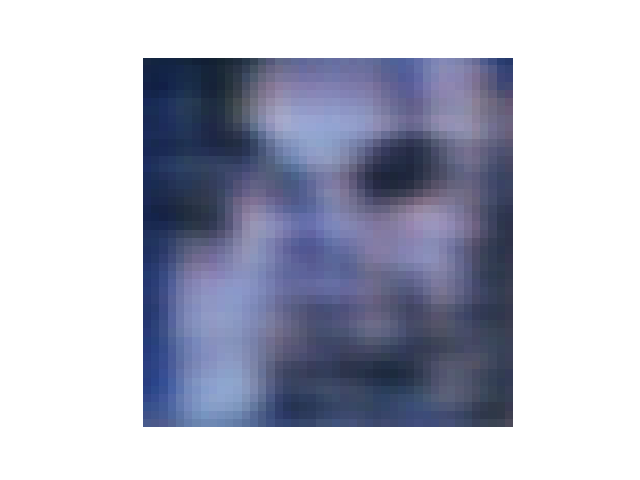
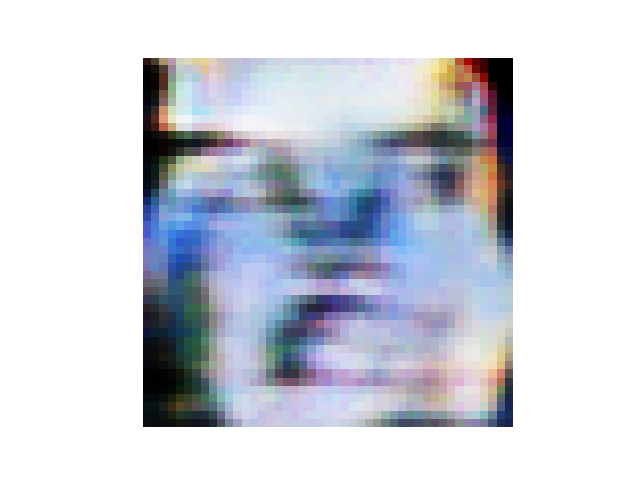
last commit and ready chekpoints

diff --git a/Gan.py b/Gan.py
@@ -36,36 +36,10 @@ IMG_SHAPE = data.shape[1:]
 print(f'IMG_SHAPE{IMG_SHAPE}')
 hidd = 256
 
-image_h = data.shape[1]
-image_w = data.shape[2]
-
-encoder_inputs = L.Input(shape=(image_h, image_w, 3))
-x = L.Conv2D(32, (3, 3), activation='relu', padding='same')(encoder_inputs)
-x = L.MaxPooling2D((2, 2))(x)
-x = L.Conv2D(64, (3, 3), activation='relu', padding='same')(x)
-x = L.MaxPooling2D((2, 2))(x)
-x = L.Flatten()(x)
-z_mean = L.Dense(hidd, activation='relu', kernel_initializer='glorot_uniform', bias_initializer='zeros')(x)
-z_log_var = L.Dense(hidd, activation='relu', kernel_initializer='glorot_uniform', bias_initializer='zeros')(x)
-
-# Define the sampling layer
-def sampling(args):
-    z_mean, z_log_var = args
-    epsilon = K.random_normal(shape=(K.shape(z_mean)[0], hidd), mean=0., stddev=1.)
-    return z_mean + K.exp(0.5 * z_log_var) * epsilon
-
-z = L.Lambda(sampling)([z_mean, z_log_var])
-
-# Define the encoder model
-encoder = tf.keras.Model(encoder_inputs, [z_mean, z_log_var, z])
 
 
 print("GAN generator")
-
 decoder_inputs = L.Input(shape=(hidd,))
-x = L.Dropout(0.5)(x)
-x = L.Dense(512, activation='relu')(x)
-x = L.Dropout(0.5)(x)
 x = L.Dense(256, activation='elu')(decoder_inputs)
 x = L.Dropout(0.5)(x)
 x = L.BatchNormalization()(x)
@@ -85,11 +59,7 @@ x = L.BatchNormalization()(x)
 x = L.Conv2D(3, (7, 7), strides=(1, 1), activation='sigmoid')(x)
 decoder_outputs = x
 
-
-
-
 generator = tf.keras.Model(decoder_inputs, decoder_outputs)
-
 
 print("GAN discriminator")
 discriminator = Sequential()
@@ -179,19 +149,14 @@ def generator_loss(fake_output):
 #     return tf.reduce_mean(fake_output) - tf.reduce_mean(real_output)
 
 
-generator_optimizer = tf.keras.optimizers.Adam(learning_rate=1e-5, clipvalue=0.8)
-discriminator_optimizer = tf.keras.optimizers.Adam(learning_rate=1e-6, clipvalue=0.6)
+generator_optimizer = tf.keras.optimizers.Adam(learning_rate=1e-6, clipvalue=0.8)
+discriminator_optimizer = tf.keras.optimizers.Adam(learning_rate=1e-7, clipvalue=0.6)
 
 @tf.function
 def train_step(images, batch_size, epoch):
     noise = sample_noise_batch(batch_size)
     with tf.GradientTape() as gen_tape, tf.GradientTape() as disc_tape:
-        z_mean, z_log_var, z = encoder(images, training=True)
-
-        if epoch // 2 == 1:
-            generated_images = generator(z, training=True)
-        else:
-            generated_images = generator(noise, training=True)
+        generated_images = generator(noise, training=True)
 
         real_output = discriminator(images, training=True)
         fake_output = discriminator(generated_images, training=True)

diff --git a/testing_the_GAN.py b/testing_the_GAN.py
@@ -1,0 +1,40 @@
+from Gan import sample_images, generator
+import numpy as np
+import os
+import tensorflow as tf
+import matplotlib.pyplot as plt
+
+
+data = np.load('lfw_data.npy')
+data = np.float32(data[:6000]) / 255.
+
+hidd =256
+
+checkpoint_dir = 'checkpoints'
+checkpoint_prefix = os.path.join(checkpoint_dir, "ckpt")
+checkpoint = tf.train.Checkpoint(generator=generator)
+manager = tf.train.CheckpointManager(checkpoint, checkpoint_dir, max_to_keep=1)
+latest_checkpoint = manager.latest_checkpoint
+if latest_checkpoint:
+    checkpoint.restore(latest_checkpoint)
+    print("Loaded weights from the latest checkpoint:", latest_checkpoint)
+
+IMG_SHAPE = data.shape[1:]
+
+def sample_noise_batch(bsize):
+    return np.random.normal(size=(bsize, hidd)).astype('float32')
+
+def sample_images(nrow, ncol, save_dir):
+    images = generator(sample_noise_batch(bsize=nrow * ncol), training=False)
+    if np.var(images) != 0:
+        images = images.clip(np.min(data), np.max(data))
+    for i in range(nrow*ncol):
+        if not os.path.exists(save_dir):
+            os.makedirs(save_dir)
+            img = images[i].reshape(IMG_SHAPE)
+            plt.imshow(img, cmap="gray")
+            plt.axis('off')
+            plt.savefig(os.path.join(save_dir, f'image_{i}.png'))
+            plt.close()
+
+sample_images(2, 5, 'generated_images_testing')
